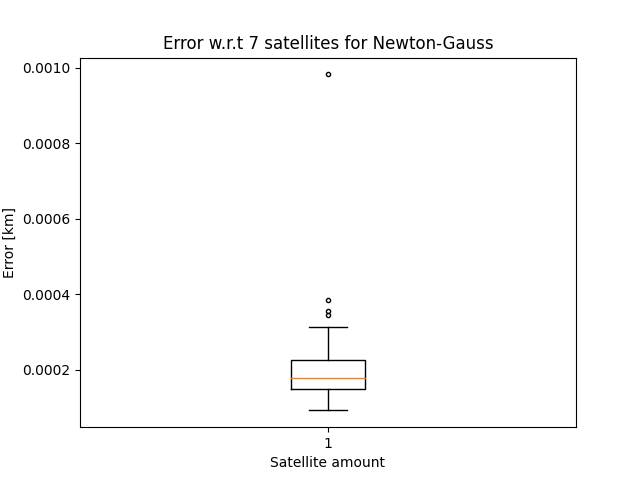
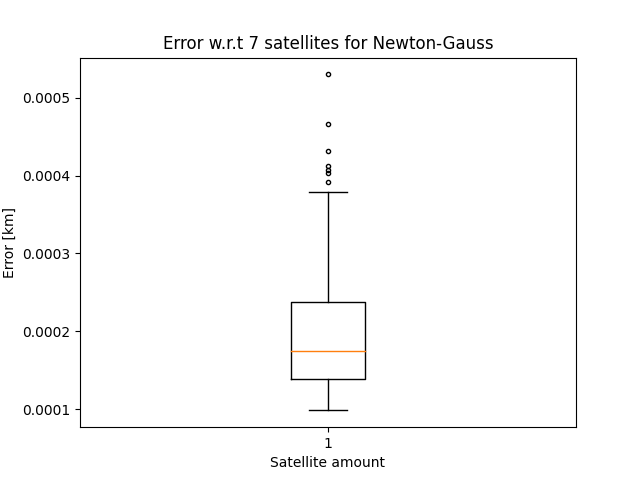
littlar breytingar her og þar, aðallega i problem 5

diff --git a/problem_5.py b/problem_5.py
@@ -23,18 +23,25 @@ def location(phi, theta):
 
 #Constants
 tol_error = 1e-6
-error = 1e-2
-tight_phi = [pi/8-error-error, pi/8-error, pi/8, pi/8+error]
-tight_theta = [pi/2 - error - error, pi/2 - error, pi/2, pi/2+error]
+tiny_offset = 1e-8
+small_offset = 1e-2
+
+
+tiny_phi = [pi/8-tiny_offset, pi/8-tiny_offset, pi/8+tiny_offset, pi/8+tiny_offset]
+tiny_theta = [pi/2-tiny_offset-tiny_offset, pi/2-tiny_offset, pi/2+tiny_offset, pi/2+tiny_offset+tiny_offset]
+
+small_phi = [pi/8-small_offset-small_offset, pi/8-small_offset, pi/8+small_offset, pi/8+small_offset+small_offset]
+small_theta = [pi/2-small_offset-small_offset, pi/2-small_offset, pi/2+small_offset, pi/2+small_offset+small_offset]
 
 A, B, C, t = [], [], [], []
-
-for i in range(len(tight_phi)):
-    t.append(location(tight_phi[i], tight_theta[i])['t']) #Vector of time for each sat t[s] derived from correct values
-    values = location(tight_phi[i], tight_theta[i]) #Derived from prerceived values
-    A.append(values['A']) #Vector of distances in plane A[km]
-    B.append(values['B']) #Vector of distances in plane B[km]
-    C.append(values['C']) #Vector of distances in plane C[km]
+def populate_matrix(phi, theta):
+    A.clear(), B.clear(), C.clear(), t.clear()
+    for i in range(len(phi)):
+        t.append(location(phi[i], theta[i])['t']) #Vector of time for each sat t[s] derived from correct values
+        values = location(phi[i], theta[i]) #Derived from prerceived values
+        A.append(values['A']) #Vector of distances in plane A[km]
+        B.append(values['B']) #Vector of distances in plane B[km]
+        C.append(values['C']) #Vector of distances in plane C[km]
 
 def F(x):
     funcs = []
@@ -67,8 +74,16 @@ def main():
     '''Runs the program and gives stores the intitial guess
     And prints the solution in an acceptable way'''
     x0 = np.array([0,0,6370,0]) #Initial guess for newtons method
+    populate_matrix(tiny_phi, tiny_theta)
     x,y,z,d = newtonmult(x0, tol_error)
-    print("Final answers: \n")
+    print(f"\nposition with e = {tiny_offset}: \n")
+    print("x is {:.16f} \t".format(x))
+    print("y is {:.16f} \t".format(y))
+    print("z is {:.16f} \t".format(z))
+    print("d is {:.16f} \n".format(d))
+    populate_matrix(small_phi, small_theta)
+    x,y,z,d = newtonmult(x0, tol_error)
+    print(f"\nposition with e = {small_offset}: \n")
     print("x is {:.16f} \t".format(x))
     print("y is {:.16f} \t".format(y))
     print("z is {:.16f} \t".format(z))

diff --git a/problem_1.py b/problem_1.py
@@ -52,9 +52,9 @@ def main():
     x0 = np.array([X,Y,Z,D]) #Initial guess for newtons method
     x,y,z,d = newtonmult(x0, toll_err)
     print("Final answers: \n")
-    print("x is {:.6f} \t".format(x))
-    print("y is {:.6f} \t".format(y))
-    print("z is {:.6f} \t".format(z))
-    print("d is {:.6f} \n".format(d))
+    print("x is {:.4f} \t".format(x))
+    print("y is {:.4f} \t".format(y))
+    print("z is {:.2f} \t".format(z))
+    print("d is {:.8f} \n".format(d))
     return 0 
 main()

diff --git a/problem_2_3.py b/problem_2_3.py
@@ -63,8 +63,9 @@ def main():
     '''Runs the program and gives stores the intitial guess
     And prints the solution in an acceptable way'''
     x0 = np.array([0,0,6370,0]) #Initial guess for newtons method
-    x,y,z,d = newtonmult(x0, 0.00001)
-    print('The error is:')
+    x,y,z,d = newtonmult(x0, 0.00001
+    print(f"Values: x = {x} ,  y = {y} , z = {z} , d =  {d}")
+    print('The error is: ', end="")
     print(sqrt(pow(x - X, 2) + pow(y - Y, 2) + pow(z - Z, 2)))
     return 0
     
